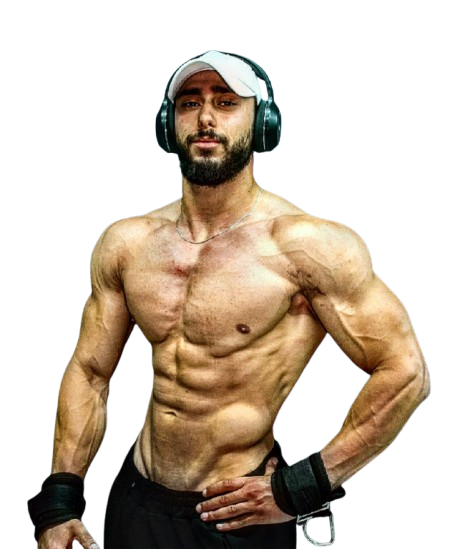
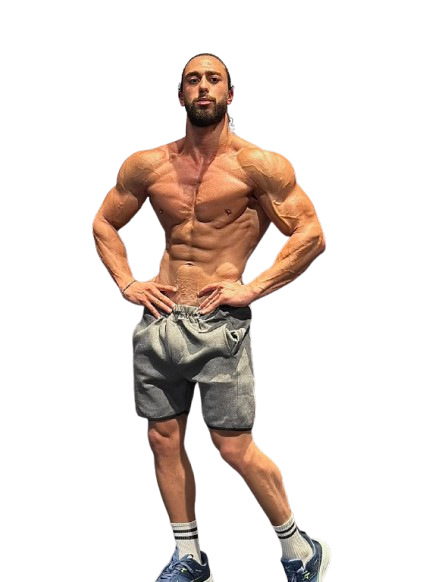
prices updated

diff --git a/frontend/src/Components/Pricing/Pricing.jsx b/frontend/src/Components/Pricing/Pricing.jsx
@@ -11,14 +11,14 @@ const Pricing = () => {
         {/* Individual Plans */}
         <PackageCard 
           pack='1 Month Workout Plan' 
-          price='$70'
+          price='$100'
           tier='Standard'
           description='Professional workout plan tailored to your goals'
           contactFrequency='Weekly check-ins'
         />
         <PackageCard 
           pack='1 Month Diet Plan' 
-          price='$70'
+          price='$100'
           tier='Standard'
           description='Customized nutrition plan for optimal results'
           contactFrequency='Weekly check-ins'
@@ -27,7 +27,7 @@ const Pricing = () => {
         {/* Full Package 1 - Workout + Diet */}
         <PackageCard 
           pack='Full Package 1' 
-          price='$300'
+          price='$500'
           tier='Standard'
           description='3 months workout plan + diet plan'
           contactFrequency='Weekly check-ins'
@@ -41,7 +41,7 @@ const Pricing = () => {
         />
         <PackageCard 
           pack='Full Package 2' 
-          price='$500'
+          price='$900'
           tier='Premium'
           description='3 months workout plan + diet plan'
           contactFrequency='Daily coaching support'

diff --git a/frontend/src/Components/Carousel/Carousel.module.css b/frontend/src/Components/Carousel/Carousel.module.css
@@ -15,6 +15,7 @@
     transform: translateX(-50%);
     width: fit-content;
     z-index: 1;
+    zoom: 115%;
 }
 .backdrop {
     position: absolute;